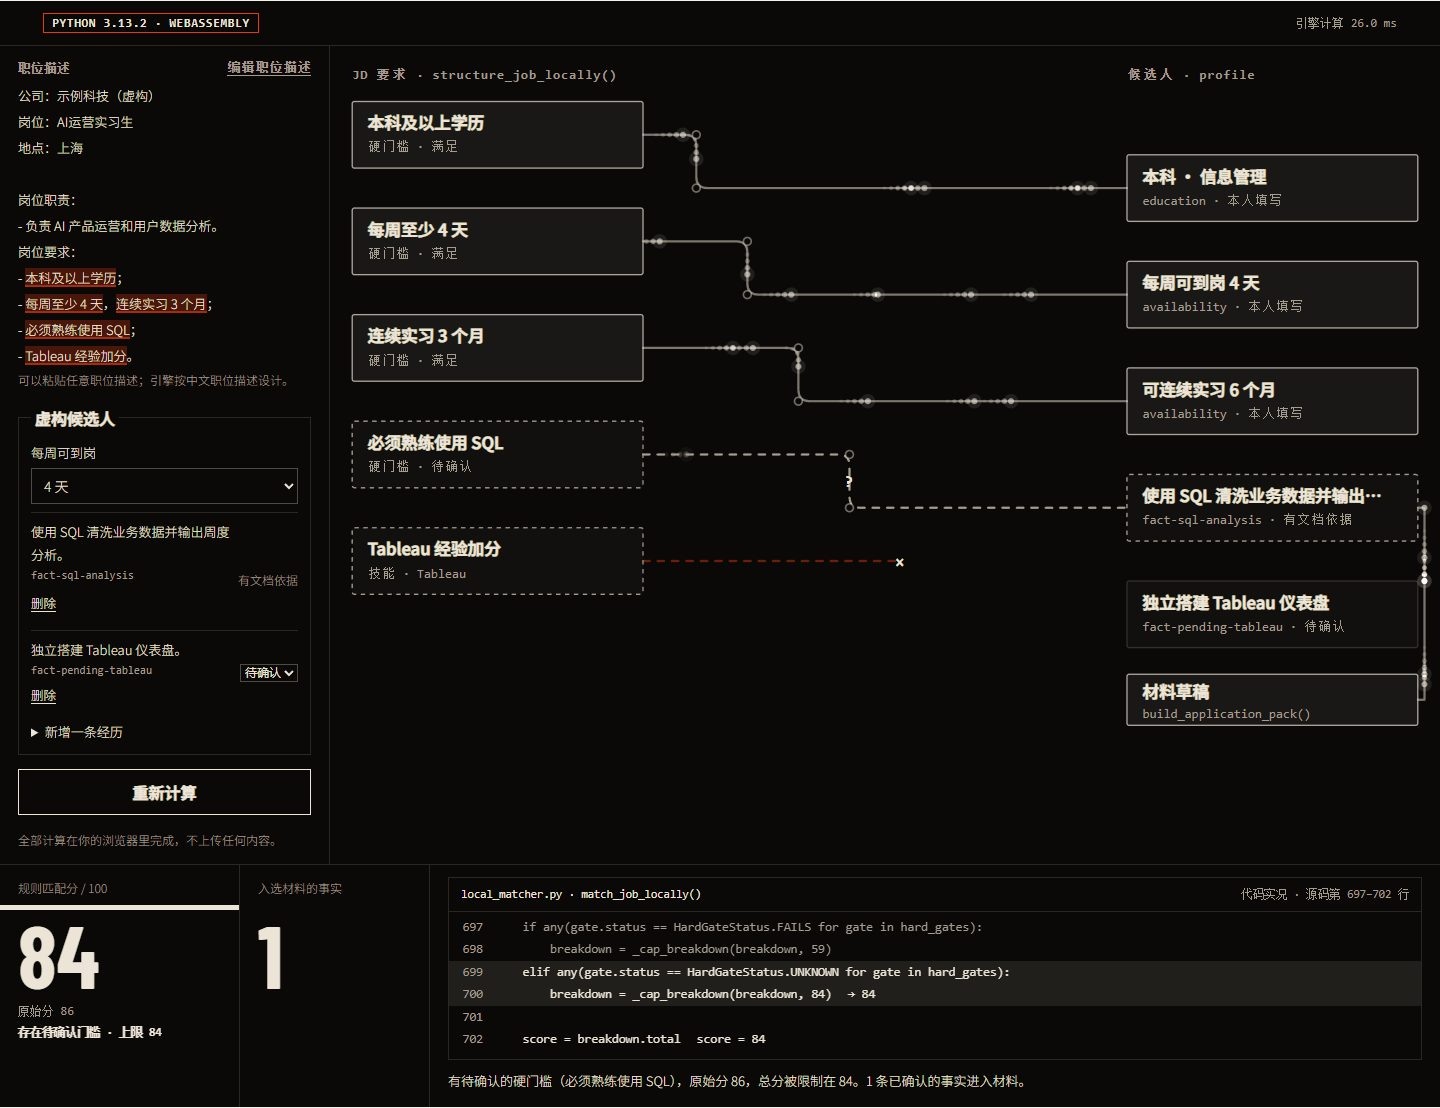
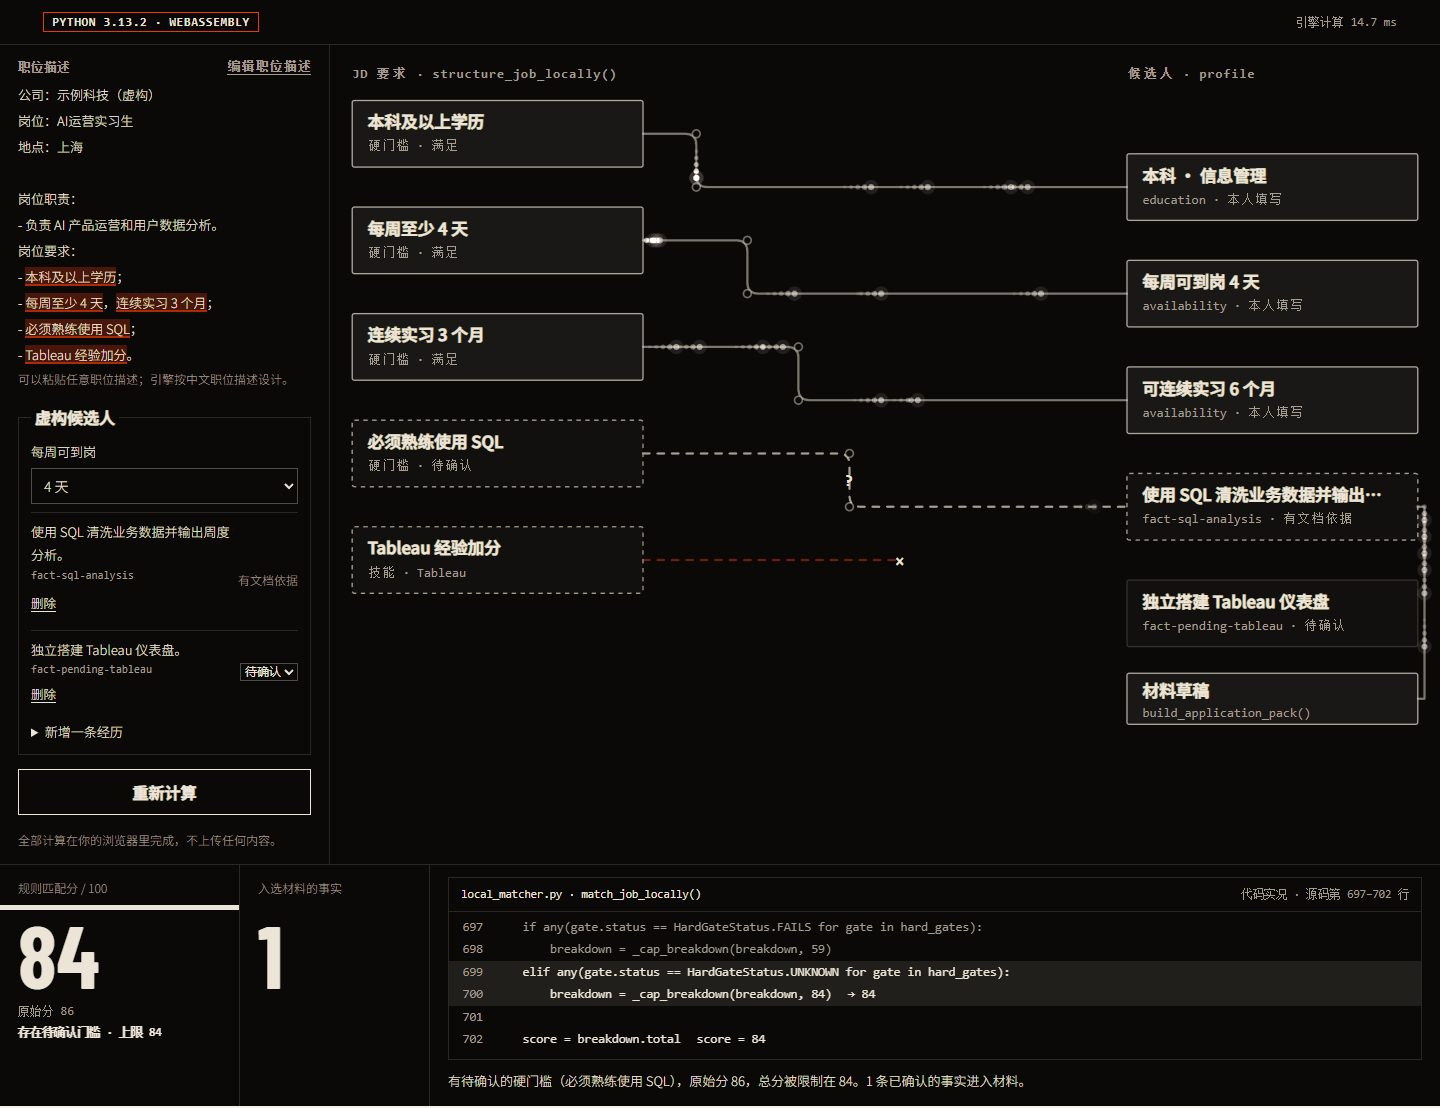
Taste pass (brand kept): readable sizes and measure, real product screenshots on the home page and the overview
- reading text never below 13px; card summaries at 16px; prose measure 36em
- 100svh instead of 100vh (phone address bar)
- live-shots also captures a 16:10 detail of each running program; the projects door and the overview show the three
  details (the job engine's circuit, the study's exclusion bars, QuotaDeck's quota timeline), captioned as real
  screenshots and linked to the live editions; the job engine's caption says the job and candidate are fictional

diff --git a/tests/e2e/taste-pass.spec.ts b/tests/e2e/taste-pass.spec.ts
@@ -1,0 +1,83 @@
+import { test, expect, type Page } from '@playwright/test';
+import { SITE } from '../../src/data/site';
+import { skipIntro, motionOff, noHorizontalOverflow } from './helpers';
+
+/** Visible elements with their own text, outside demos, code and drawings, set below 13px. */
+const smallText = (page: Page) => page.evaluate(() => [...document.querySelectorAll('main *, footer *')].filter(el => {
+  if (el.closest('[data-demo], pre, code, svg, [data-ui]')) return false;
+  if (![...el.childNodes].some(n => n.nodeType === 3 && n.textContent!.trim())) return false;
+  if (el.getClientRects().length === 0 || getComputedStyle(el).visibility === 'hidden') return false;
+  return parseFloat(getComputedStyle(el).fontSize) < 13;
+}).map(el => `${el.tagName.toLowerCase()}.${[...el.classList].join('.')}: ${el.textContent!.trim().slice(0, 20)}`));
+
+test.beforeEach(async ({ page }) => { await skipIntro(page); await motionOff(page); });
+
+for (const path of ['/', '/brief/', '/projects/', '/projects/ai-career/', '/projects/hris-workflow/', '/en/projects/']) {
+  test(`${path}: no reading text under 13px`, async ({ page }) => {
+    await page.goto(path);
+    expect(await smallText(page)).toEqual([]);
+  });
+}
+
+test('project card summaries are set at 16px', async ({ page }) => {
+  await page.goto('/projects/');
+  expect(await page.locator('.prow__did').first().evaluate(el => getComputedStyle(el).fontSize)).toBe('16px');
+});
+
+test('prose paragraphs keep a readable measure', async ({ page, isMobile }) => {
+  test.skip(!!isMobile, 'desktop measure');
+  await page.goto('/projects/ai-career/');
+  const widest = await page.locator('article.prose p').evaluateAll(ps => Math.max(...ps.map(p => p.getBoundingClientRect().width / parseFloat(getComputedStyle(p).fontSize))));
+  expect(widest).toBeLessThanOrEqual(36.5);
+});
+
+test('home: the projects door shows three real product screenshots on wide screens', async ({ page, isMobile }) => {
+  await page.goto('/');
+  const shots = page.locator('a.door--ink .door__shots img');
+  await expect(shots).toHaveCount(3);
+  if (isMobile) { await expect(page.locator('.door__shots')).toBeHidden(); return; }
+  await expect(page.locator('.door__shots')).toBeVisible();
+  for (const img of await shots.all()) expect(await img.evaluate((el: HTMLImageElement) => el.complete && el.naturalWidth > 0)).toBe(true);
+  expect(await noHorizontalOverflow(page)).toBe(true);
+});
+
+for (const [prefix, lang] of [['', 'zh'], ['/en', 'en']] as const) {
+  test(`overview (${lang}): real screenshots of the running projects, captioned and linked`, async ({ page }) => {
+    await page.goto(`${prefix}/brief/`);
+    const items = page.locator('.shots figure');
+    await expect(items).toHaveCount(3);
+    for (const fig of await items.all()) {
+      const img = fig.locator('img');
+      await img.scrollIntoViewIfNeeded();
+      await expect.poll(() => img.evaluate((el: HTMLImageElement) => el.complete && el.naturalWidth > 0)).toBe(true);
+      expect((await img.getAttribute('alt'))!.length).toBeGreaterThan(4);
+      await expect(fig.locator('figcaption')).toContainText(SITE.shots.real[lang]);
+      await expect(fig.locator('a')).toHaveAttribute('href', new RegExp(`^${prefix}/projects/.+/live/$`));
+    }
+    expect(await noHorizontalOverflow(page)).toBe(true);
+  });
+}
+
+test('overview screenshots sit flush in their frames (no dark band under a picture)', async ({ page, isMobile }) => {
+  test.skip(!!isMobile, 'three columns');
+  await page.goto('/brief/');
+  const gaps = await page.locator('.shots a').evaluateAll(as => as.map(a => Math.abs(a.getBoundingClientRect().height - a.querySelector('img')!.getBoundingClientRect().height)));
+  for (const g of gaps) expect(g).toBeLessThan(1);
+});
+
+test('home: the door screenshots are shown in their own colours, large enough to read as pictures', async ({ page, isMobile }) => {
+  test.skip(!!isMobile, 'wide screens only');
+  await page.goto('/');
+  const img = page.locator('.door__shots img').first();
+  expect(await img.evaluate(el => getComputedStyle(el).filter)).toBe('none');
+  expect((await img.boundingBox())!.width).toBeGreaterThanOrEqual(180);
+});
+
+test('home: on a short wide window the door screenshots never touch the big word', async ({ page, isMobile }) => {
+  test.skip(!!isMobile, 'wide screens only');
+  await page.setViewportSize({ width: 1440, height: 640 });
+  await page.goto('/');
+  const shots = (await page.locator('.door__shots').boundingBox())!;
+  const big = (await page.locator('a.door--ink .door__big').boundingBox())!;
+  expect(shots.y + shots.height).toBeLessThanOrEqual(big.y - 8);
+});

diff --git a/src/data/site.ts b/src/data/site.ts
@@ -79,6 +79,21 @@ export const SITE = {
     status: { zh: '当前状态', en: 'Status' },
     statusNext: { zh: '状态与下一步', en: 'Status & next' },
   },
+  /** Real screenshots of the live editions (tools/live-shots.mjs), shown on the home page's projects door and the overview. */
+  shots: {
+    real: { zh: '真实运行截图', en: 'Screenshot of the running program' },
+    items: [
+      { id: 'career', href: '/projects/ai-career/live/',
+        alt: { zh: '求职引擎的匹配电路：左边是岗位要求，右边是候选人的事实', en: 'The job engine’s matching circuit: job requirements on the left, the candidate’s facts on the right' },
+        caption: { zh: '求职引擎在浏览器里匹配虚构的岗位与候选人，每条要求连到一条事实', en: 'The job engine matching a fictional job and candidate in the browser, every requirement wired to a fact' } },
+      { id: 'campus', href: '/projects/ai-campus/live/',
+        alt: { zh: '研究统计程序的清洗结果：排除原因的柱状图与纳入后的统计', en: 'The study’s statistics program: bars for each exclusion reason and the figures for the included rows' },
+        caption: { zh: '研究的统计程序在浏览器里清洗构造样本：排除了哪些，为什么', en: 'The study’s statistics program cleaning a constructed sample in the browser: what was excluded and why' } },
+      { id: 'quota', href: '/projects/quota-deck/live/',
+        alt: { zh: 'QuotaDeck 的额度时间轴：三条额度曲线与耗尽预测虚线', en: 'QuotaDeck’s quota timeline: three quota curves and the dashed exhaustion forecast' },
+        caption: { zh: 'QuotaDeck 的真实界面在模拟时钟上运行：额度消耗与耗尽预测', en: 'QuotaDeck’s real interface on a simulated clock: quota drain and the exhaustion forecast' } },
+    ],
+  },
   livePreview: {
     caption: { zh: '预览截图：真实程序运行后的界面。下方是在你的浏览器里实时运行的版本。', en: 'Preview: the real program after it has run. The live version runs in your browser below.' },
     alt: { zh: '完整版运行后的界面截图', en: 'Screenshot of the live edition after it has run' },

diff --git a/src/styles/base.css b/src/styles/base.css
@@ -49,7 +49,7 @@ button { font: inherit; color: inherit; }
 .skip:focus { top: 12px; }
 .sr { position: absolute; width: 1px; height: 1px; overflow: hidden; clip: rect(0 0 0 0); white-space: nowrap; }
 .num { font: 700 clamp(72px, 11vw, 168px)/0.82 var(--font-display); letter-spacing: -0.01em; font-variant-numeric: lining-nums; }
-.label { font: 700 12px/1 var(--font-display); letter-spacing: 0.24em; text-transform: uppercase; }
+.label { font: 700 13px/1 var(--font-display); letter-spacing: 0.24em; text-transform: uppercase; }
 .section-head { display: flex; justify-content: space-between; align-items: baseline; gap: 16px; padding-block: 44px 14px; border-bottom: var(--rule); }
 .section-head h2 { font-size: clamp(24px, 2.6vw, 36px); }
 .night-zone { background: var(--night); color: var(--night-fg); }
@@ -89,7 +89,7 @@ p, li, dd { text-wrap: pretty; }
 .prose { max-width: 1600px; padding-block: 24px 64px; }
 .prose h2 { margin: 56px 0 16px; padding-bottom: 12px; border-bottom: var(--rule); font-size: clamp(24px, 2.6vw, 36px); }
 .prose h3 { margin: 28px 0 8px; font-size: 19px; }
-.prose p, .prose ul, .prose ol { max-width: 46em; margin-bottom: 14px; }
+.prose p, .prose ul, .prose ol { max-width: 36em; margin-bottom: 14px; }
 .prose li { margin-bottom: 8px; }
 .prose strong { font-weight: 500; }
 .prose img { margin: 8px 0 20px; width: 100%; max-width: 900px; height: auto; }

diff --git a/tests/e2e/motion-batch4.spec.ts b/tests/e2e/motion-batch4.spec.ts
@@ -19,7 +19,7 @@ test.describe('motion batch 4: the light pages', () => {
   test('home: the doors rise in order after the name and end fully shown', async ({ page, isMobile }) => {
     await page.goto('/');
     const parts = page.locator('.door [data-m-pre]');
-    await expect(parts).toHaveCount(8);
+    await expect(parts).toHaveCount(9);   // index, big word, title and line per door, plus the projects door's screenshots
     await expect(page.locator('.door .door__big.m-in')).toHaveCount(2);
     const delays = await page.locator('.door .door__big').evaluateAll(els => els.map(el => parseInt(getComputedStyle(el).getPropertyValue('--m-d'))));
     expect(delays[1]).toBeGreaterThan(delays[0]);

diff --git a/tests/unit/viewport-units.test.ts b/tests/unit/viewport-units.test.ts
@@ -1,0 +1,15 @@
+import { describe, it, expect } from 'vitest';
+import { readFileSync, readdirSync, statSync } from 'node:fs';
+import { join } from 'node:path';
+
+const files = (dir: string): string[] => readdirSync(dir).flatMap(n => {
+  const p = join(dir, n);
+  return statSync(p).isDirectory() ? files(p) : /\.(astro|css|ts)$/.test(n) ? [p] : [];
+});
+
+describe('viewport heights', () => {
+  it('use svh/dvh, never vh for full-screen heights (100vh jumps with the phone address bar)', () => {
+    const hits = files('src').filter(f => /\b100vh\b/.test(readFileSync(f, 'utf8')));
+    expect(hits).toEqual([]);
+  });
+});

diff --git a/src/data/shots.ts b/src/data/shots.ts
@@ -1,0 +1,11 @@
+import { readFileSync } from 'node:fs';
+import { SITE } from './site';
+
+type Size = { file: string; w: number; h: number };
+const manifest = () => JSON.parse(readFileSync('public/media/live-previews/manifest.json', 'utf8')) as Record<string, Size & { crop: Size }>;
+
+/** The three live-edition details with their copy, read at build time from tools/live-shots.mjs's manifest. */
+export function productShots() {
+  const m = manifest();
+  return SITE.shots.items.map(item => ({ ...item, img: m[item.id].crop }));
+}

diff --git a/tests/e2e/home.spec.ts b/tests/e2e/home.spec.ts
@@ -29,6 +29,7 @@ for (const [prefix, lang] of [['', 'zh'], ['/en', 'en']] as const) {
       test.skip(!!isMobile, 'hover only');
       await page.goto(`${prefix}/`);
       const door = page.locator('a.door').nth(0);
+      await door.scrollIntoViewIfNeeded();                   // measure where the hover will find it, not where it starts
       const before = await door.boundingBox();
       await door.hover();
       await page.waitForTimeout(400);
